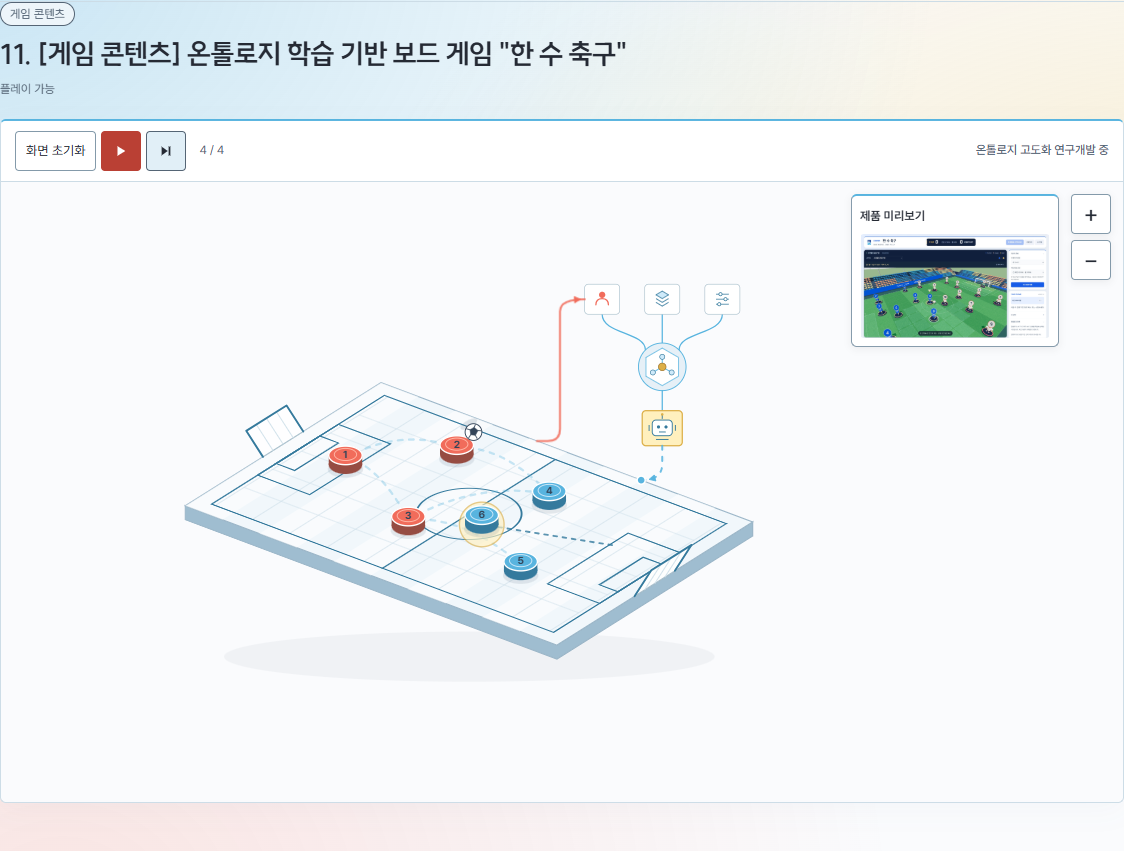
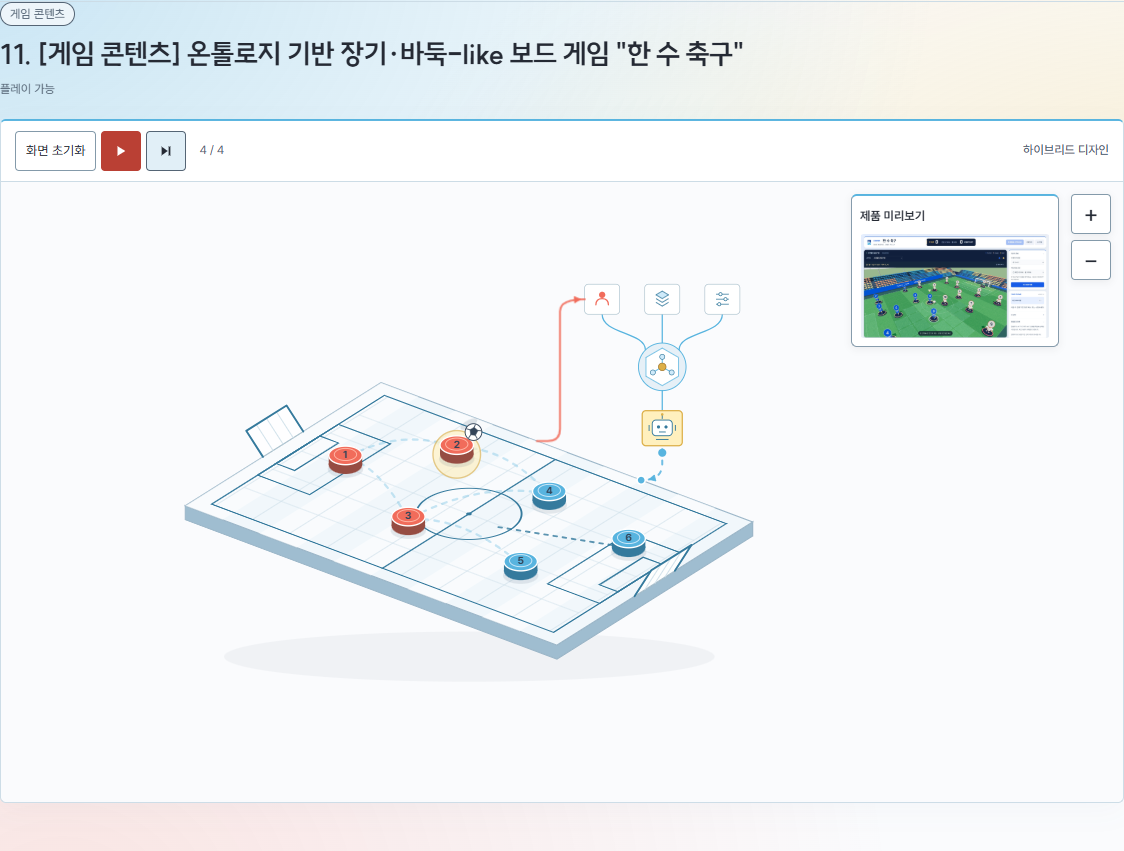
11번 캔버스 1회 재생으로 변경

diff --git a/2026.09.15/js/football-explorer.js b/2026.09.15/js/football-explorer.js
@@ -167,10 +167,10 @@
   }
   function stop(){cancelAnimationFrame(frame);frame=0;last=0;}
   function schedule(){if(!frame&&running&&visible&&!document.hidden&&!destroyed)frame=requestAnimationFrame(tick);}
-  function tick(time){frame=0;const dt=last?Math.min(time-last,100):0;last=time;elapsed+=dt;if(elapsed>=duration){if(stage<4){stage++;elapsed=0;notify();}else{cycle++;stage=1;elapsed=0;notify();}}update();schedule();}
+  function tick(time){frame=0;const dt=last?Math.min(time-last,100):0;last=time;elapsed+=dt;if(elapsed>=duration){if(stage<4){stage++;elapsed=0;notify();}else{elapsed=duration;running=false;stop();notify();}}update();schedule();}
   function reset(){stop();cycle=0;stage=0;running=false;paused=false;elapsed=0;zoom=1;pan={x:0,y:0};layout();update();notify();}
   function play(){stop();cycle=0;stage=1;running=true;paused=false;elapsed=0;update();notify();schedule();}
-  function next(){if(!running)return;if(stage<4){stage++;elapsed=0;}else{cycle++;stage=1;elapsed=0;}update();notify();}
+  function next(){if(!running)return;if(stage<4){stage++;elapsed=0;}else{elapsed=duration;running=false;stop();}update();notify();}
   function visibility(){last=0;if(document.hidden)stop();else schedule();}
   function responsive(){zoom=1;pan={x:0,y:0};layout();update();}
   function pointerDown(e){if(mobile.matches||e.button!==0)return;drag={x:e.clientX,y:e.clientY,pan:{...pan}};svg.setPointerCapture(e.pointerId);}
